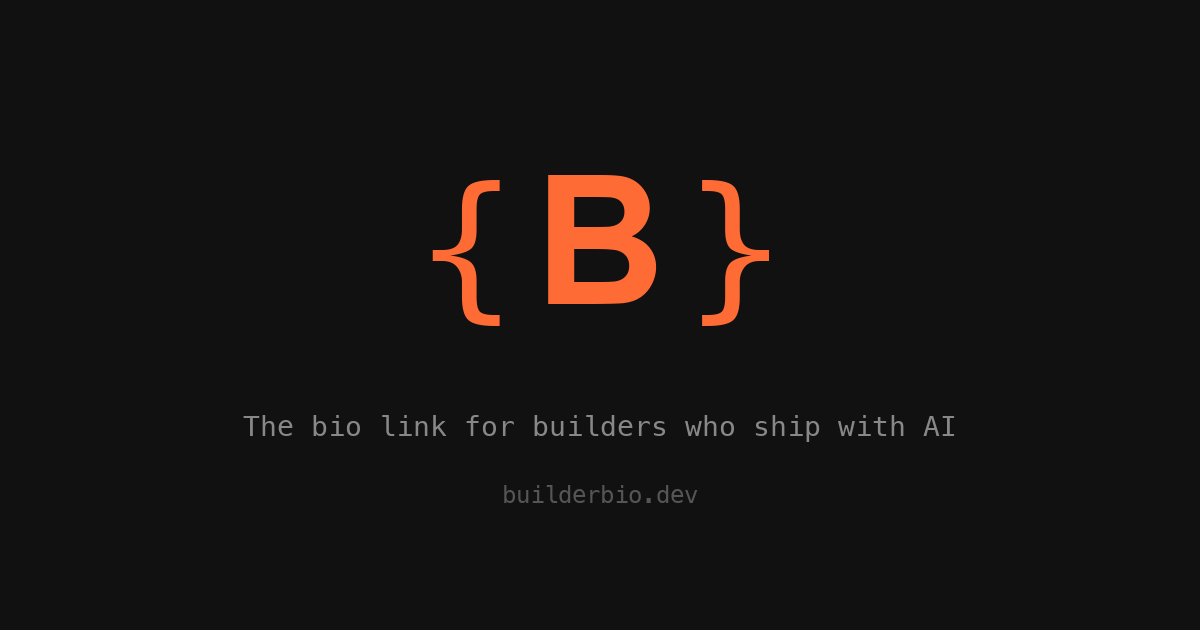
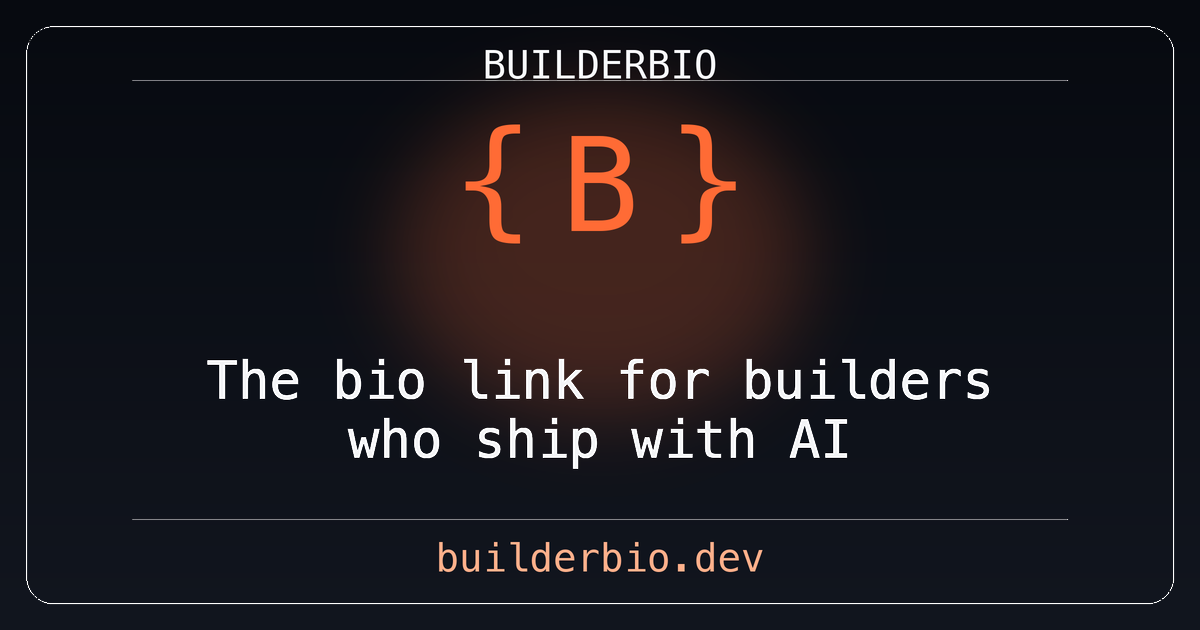
Refresh BuilderBio social share image

diff --git a/public/gavin.html b/public/gavin.html
@@ -17,13 +17,13 @@
 <meta property="og:site_name" content="builderbio">
 <meta property="og:type" content="profile">
 <meta property="og:locale" content="en_US">
-<meta property="og:image" content="https://builderbio.dev/og-image.jpg?v=3">
+<meta property="og:image" content="https://builderbio.dev/og-image.png?v=4">
 <meta property="og:image:width" content="1200">
 <meta property="og:image:height" content="630">
 <meta name="twitter:card" content="summary_large_image">
 <meta name="twitter:title" content="Gavin's BuilderBio — What I Built with AI">
 <meta name="twitter:description" content="230 sessions, 12.7K turns, 34 active days of building with Claude Code and Codex. See what Gavin shipped with AI coding agents.">
-<meta name="twitter:image" content="https://builderbio.dev/og-image.jpg?v=3">
+<meta name="twitter:image" content="https://builderbio.dev/og-image.png?v=4">
 <meta name="twitter:site" content="@gavin0922">
 <script type="application/ld+json">
 {"@context":"https://schema.org","@type":"ProfilePage","mainEntity":{"@type":"Person","name":"Gavin","url":"https://gavin.builderbio.dev"},"dateCreated":"2026-01-19","dateModified":"2026-03-10","description":"BuilderBio profile showing 230 AI coding sessions across Claude Code and Codex, covering product strategy, AI agent research, and developer tools."}

diff --git a/src/app/layout.tsx b/src/app/layout.tsx
@@ -46,7 +46,7 @@ export const metadata: Metadata = {
     locale: "en_US",
     images: [
       {
-        url: "https://builderbio.dev/og-image.jpg?v=3",
+        url: "https://builderbio.dev/og-image.png?v=4",
         width: 1200,
         height: 630,
         alt: "builderbio — The bio link for builders who ship with AI",
@@ -60,7 +60,7 @@ export const metadata: Metadata = {
     title: "builderbio — The Bio Link for Builders Who Ship with AI",
     description:
       "One command scans your coding agent sessions and generates a shareable developer profile. Show what you shipped, your tech stack, and building style.",
-    images: ["https://builderbio.dev/og-image.jpg?v=3"],
+    images: ["https://builderbio.dev/og-image.png?v=4"],
   },
   robots: {
     index: true,

diff --git a/src/app/api/bio-profile/[username]/route.ts b/src/app/api/bio-profile/[username]/route.ts
@@ -256,7 +256,7 @@ export async function GET(
     const pageDesc = `${totalSessions} sessions, ${totalTurns.toLocaleString()} turns, ${activeDays} active days of building with ${agents}. See what ${displayName} shipped with AI coding agents.`;
     const profileUrl = `https://${username}.builderbio.dev`;
 
-    const ogImageUrl = "https://builderbio.dev/og-image.jpg?v=3";
+    const ogImageUrl = "https://builderbio.dev/og-image.png?v=4";
 
     const seoMeta = `<title>${pageTitle}</title>
 <meta name="description" content="${pageDesc}">
